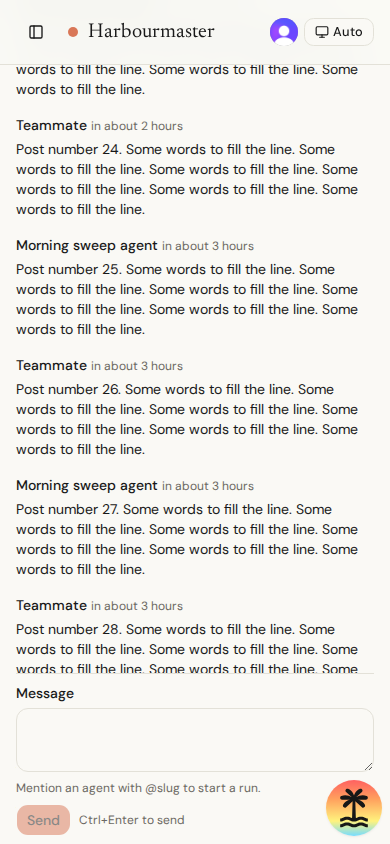
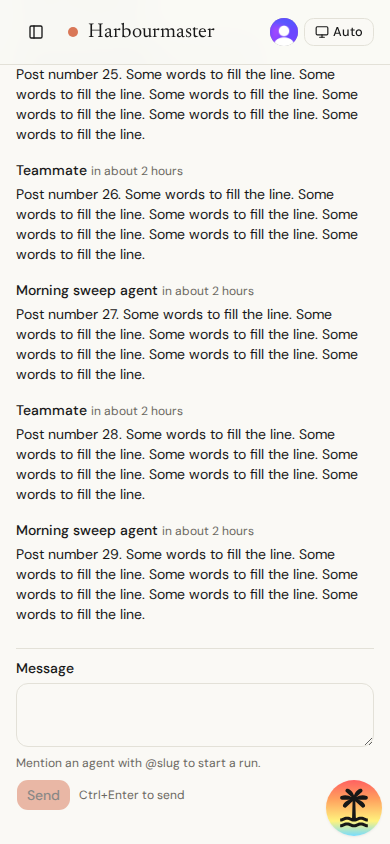
MB.4: fix inbox scroll marker and review nits
Claude-Session: https://claude.ai/code/session_012Zvfj7oSNZmirvs3Rh8SbU

Changed region(s): [[0.0308, 0.0616, 0.9231, 0.8318], [0.0308, 0.8934, 0.6769, 1.0]]

diff --git a/apps/web/src/components/task/task-page.tsx b/apps/web/src/components/task/task-page.tsx
@@ -250,7 +250,7 @@ export function TaskPage({ initial }: { initial: TaskView }) {
     <section className="mx-auto flex max-w-6xl flex-col gap-4">
       <nav aria-label="Breadcrumb" className="text-muted-foreground text-sm">
         <Link
-          className="inline-flex pointer-coarse:min-h-10 pointer-coarse:min-w-10 items-center"
+          className="pointer-coarse:inline-flex pointer-coarse:min-h-10 pointer-coarse:min-w-10 pointer-coarse:items-center"
           to="/desk"
         >
           Desk

diff --git a/apps/web/src/components/composer/sticky-composer.tsx b/apps/web/src/components/composer/sticky-composer.tsx
@@ -47,7 +47,7 @@ export function StickyComposer({
   return (
     <div
       className={cn(
-        "sticky bottom-[var(--keyboard-inset)] z-10 border-t pt-3 pb-[max(0.5rem,env(safe-area-inset-bottom))] md:static md:border-t-0 md:bg-transparent md:p-0",
+        "sticky bottom-[var(--keyboard-inset)] z-10 border-t pt-3 pb-[max(0.5rem,env(safe-area-inset-bottom))] md:static md:z-auto md:border-t-0 md:bg-transparent md:p-0",
         background
       )}
       style={style}

diff --git a/apps/web/src/components/desk/desk-card.tsx b/apps/web/src/components/desk/desk-card.tsx
@@ -29,7 +29,7 @@ export function DeskCardView({
           {agentInitials(agentName)}
         </span>
         <div className="min-w-0 flex-1">
-          <div className="font-semibold max-md:line-clamp-2 md:truncate">
+          <div className="break-words font-semibold max-md:line-clamp-2 md:truncate">
             {card.title}
           </div>
           <div className="truncate text-muted-foreground text-xs">

diff --git a/apps/web/src/components/inbox/thread-panel.tsx b/apps/web/src/components/inbox/thread-panel.tsx
@@ -60,8 +60,8 @@ export function ThreadPanel({
         posts={view.data.posts}
         userId={userId}
       />
-      <div ref={end} />
       <PostComposer onSent={handleSent} threadId={threadId} />
+      <div ref={end} />
     </section>
   );
 }

diff --git a/docs/reviews/tasks/MB.4.md b/docs/reviews/tasks/MB.4.md
@@ -12,8 +12,12 @@ Screenshots are in `docs/reviews/tasks/MB.4/` (390x844, 360x740, 1280x800), take
 
 ## Verdicts
 
-Round 1: pending.
+Round 1: must-fix. The inbox scroll marker sat above the sticky composer, so the last posts hid behind it (fixed: marker after the composer, `inbox-thread-390.png` retaken), and a viewport-sized composer screenshot was missing (`task-composer-390.png`, composer pinned at the bottom of the Thread card). Nits fixed: `md:z-auto` on the sticky wrapper, `inline-flex` on the Desk link only for coarse pointers, `break-words` on desk titles.
+
+Round 2: pending.
 
 ## Notes
 
 The agent-browser viewport does not report a coarse pointer, so the 40px targets were checked from the CSS rules, not measured.
+
+Nits left: two-column fact chips truncate long values (agent name, cost) on a phone, the full text is in the receipt; the Done lane can show "Show N more" next to the server's "+ M more" line; the keyboard-inset hook is untested on a real device; `useCallback` on `nameOf` in the desk board is not needed.
